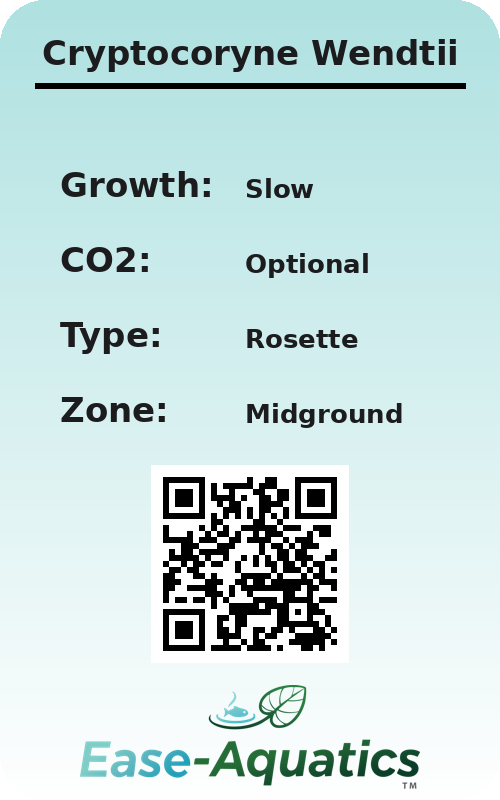
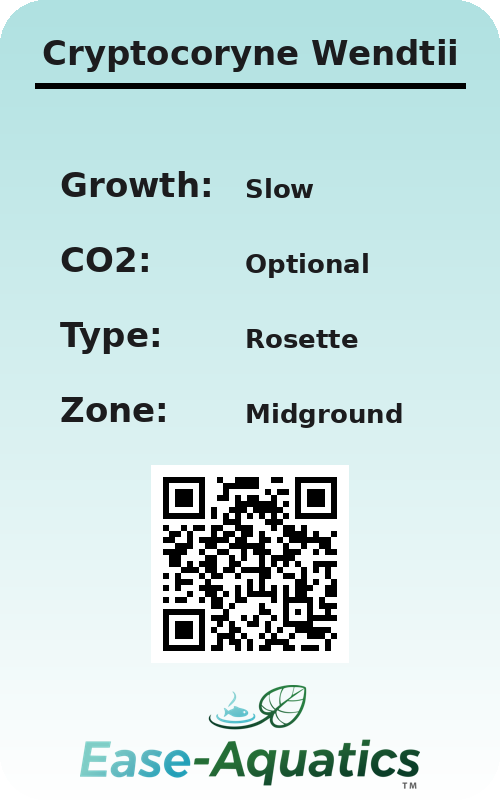
Refactor QR code generation for cleaner URL structure and update comments for clarity

Changed region(s): [[0.33, 0.5938, 0.69, 0.8125]]

diff --git a/qr_gen.py b/qr_gen.py
@@ -6,7 +6,7 @@ from PIL import Image, ImageDraw, ImageFont
 Image.MAX_IMAGE_PIXELS = None 
 
 # --- SETTINGS ---
-# Updated to your verified custom domain
+# Use the clean domain without the www prefix for a shorter, cleaner QR code
 BASE_URL = "https://ease-aquatics.co.za"
 LOGO_FILE = "dist/img/SimpleLogo.png" 
 LABEL_DIR = "Final_Branded_Stickers"
@@ -58,10 +58,9 @@ def create_branded_sticker(plant):
     canvas = canvas.convert("RGBA")
     draw = ImageDraw.Draw(canvas)
     
-    # Updated font path for Windows/WSL environment
+    # Path logic for Windows/WSL
     font_path = "C:/Windows/Fonts/arialbd.ttf" if os.name == 'nt' else "/usr/share/fonts/truetype/dejavu/DejaVuSans-Bold.ttf"
     
-    # --- DYNAMIC FONT SCALING FOR NAME ---
     current_font_size = 52 
     name_text = plant['name']
     
@@ -72,7 +71,6 @@ def create_branded_sticker(plant):
         except:
             temp_font = ImageFont.load_default()
             
-        # Use textbbox to ensure name fits perfectly within sticker width
         left, top, right, bottom = draw.textbbox((0, 0), name_text, font=temp_font)
         text_width = right - left
         
@@ -81,21 +79,17 @@ def create_branded_sticker(plant):
             break
         current_font_size -= 2
 
-    # Fallback if loop fails
     if not f_name: f_name = ImageFont.load_default()
 
-    # Other fonts
     try:
         f_label = ImageFont.truetype(font_path, 34) 
         f_val = ImageFont.truetype(font_path, 26)   
     except:
         f_label = f_val = ImageFont.load_default()
 
-    # 1. Plant Name
     draw.text((250, 65), name_text, fill=TEXT_DARK, font=f_name, anchor="ms")
     draw.line([(35, 85), (465, 85)], fill="black", width=6)
 
-    # 2. Specs Section
     start_y = 165 
     spacing = 75  
     specs = [
@@ -110,13 +104,15 @@ def create_branded_sticker(plant):
         draw.text((60, curr_y), label, fill=TEXT_DARK, font=f_label)
         draw.text((245, curr_y + 8), val, fill=TEXT_DARK, font=f_val)
 
-    # 3. QR Code - Clean URL configuration
-    # Pointing to extensionless URLs which GitHub Pages resolves automatically
-    qr_url = f"{BASE_URL}/{plant['id']}"
+    # --- CRITICAL FIX: URL STRUCTURE ---
+    # Appending a trailing slash / ensures browsers treat this as a directory.
+    # This matches your folder-based generation (e.g., dist/monte-carlo/index.html)
+    qr_url = f"{BASE_URL}/{plant['id']}/"
+    
     qr = qrcode.QRCode(
         version=1,
-        error_correction=qrcode.constants.ERROR_CORRECT_M, # Improved for better scannability
-        box_size=6, # Slightly larger pixels for easier mobile scanning
+        error_correction=qrcode.constants.ERROR_CORRECT_M,
+        box_size=6, 
         border=2
     ) 
     qr.add_data(qr_url)
@@ -126,7 +122,6 @@ def create_branded_sticker(plant):
     qr_x = (500 - qr_img.width) // 2
     canvas.paste(qr_img, (qr_x, 465), qr_img) 
 
-    # 4. Logo section
     try:
         logo = Image.open(LOGO_FILE).convert("RGBA")
         logo.thumbnail((340, 150))
@@ -134,7 +129,6 @@ def create_branded_sticker(plant):
         y_logo = 685 
         canvas.paste(logo, (x_logo, y_logo), logo)
     except:
-        # Fallback text if logo file is missing
         draw.text((250, 740), "Ease-Aquatics™", fill=TEXT_DARK, font=f_label, anchor="ms")
 
     canvas = add_corners(canvas, CORNER_RADIUS)
@@ -142,10 +136,10 @@ def create_branded_sticker(plant):
 
 def main():
     if not os.path.exists(LABEL_DIR): os.makedirs(LABEL_DIR)
-    print(f"🚀 Generating Stickers for: {BASE_URL}")
+    print(f"🚀 Generating Clean Stickers for: {BASE_URL}")
     for plant in plant_data:
         create_branded_sticker(plant)
-        print(f"✅ Created: {plant['name']}")
+        print(f"✅ Created QR for: {plant['name']} -> {BASE_URL}/{plant['id']}/")
 
 if __name__ == "__main__":
     main()
